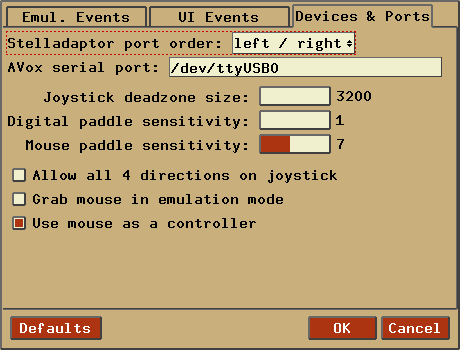
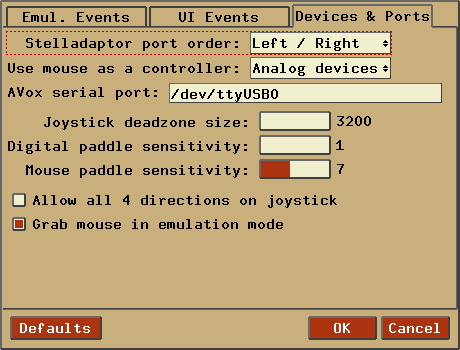
The 'usemouse' option now allows to use the mouse as a controller only for analog-type devices (paddle, trackball, etc).

diff --git a/docs/index.html b/docs/index.html
@@ -1984,8 +1984,10 @@
     </tr>
 
     <tr>
-      <td><pre>-usemouse &lt;1|0&gt;</pre></td>
-      <td>Use mouse as a controller as specified by ROM properties.</td>
+      <td><pre>-usemouse &lt;always|analog|never&gt;</pre></td>
+      <td>Use mouse as a controller as specified by ROM properties in specific case.
+      Always and never are self-explanatory, analog means only for analog-type devices
+      (paddles, trackball, etc).</td>
     </tr>
 
     <tr>
@@ -2616,14 +2618,14 @@
       <td valign="top">
         <table border="1" cellpadding="4">
           <tr><th>Item</th><th>Brief description</th><th>For more information,<br>see <a href="#CommandLine">CommandLine</a></th></tr>
-          <tr><td>Stelladaptor X is</td><td>Specifies which virtual port each Stelladaptor/2600-daptor uses (See <b>Advanced Configuration - <a href="#Adaptor">Stelladaptor/2600-daptor Support</a></b>)</td><td>-saport</td></tr>
+          <tr><td>Stelladaptor port order</td><td>Specifies which virtual port each Stelladaptor/2600-daptor uses (See <b>Advanced Configuration - <a href="#Adaptor">Stelladaptor/2600-daptor Support</a></b>)</td><td>-saport</td></tr>
+          <tr><td>Use mouse as ...</td><td>Allow the mouse to emulate various controllers</td><td>-usemouse</td></tr>
           <tr><td>AVox serial port</td><td>Described in further detail in <b>Advanced Configuration - <a href="#AtariVox">AtariVox/SaveKey Support</a></b> </td><td>-avoxport</td></tr>
           <tr><td>Joy deadzone size</td><td>Deadzone area for axes on joysticks/gamepads</td><td>-joydeadzone</td></tr>
-          <tr><td>Digital paddle sensitivity</td><td>Sensitvity used when emulating a paddle using a digital device</td><td>-dsense</td></tr>
+          <tr><td>Digital paddle sensitivity</td><td>Sensitivity used when emulating a paddle using a digital device</td><td>-dsense</td></tr>
           <tr><td>Mouse paddle sensitivity</td><td>Sensitivity used when emulating a paddle using a mouse</td><td>-msense</td></tr>
           <tr><td>Allow all 4 ...</td><td>Allow all 4 joystick directions to be pressed simultaneously</td><td>-joyallow4</td></tr>
           <tr><td>Grab mouse ...</td><td>Keep mouse in window in emulation mode</td><td>-grabmouse</td></tr>
-          <tr><td>Use mouse as ...</td><td>Allow the mouse to emulate various controllers</td><td>-usemouse</td></tr>
         </table>
       </td>
     </tr>
@@ -2687,7 +2689,7 @@
 
   <p><ol>
     <li><p><b>Power-on options</b>: Selecting this option shows a dialog whereby
-    ROM properties can be temporarily overriden, and joystick/console buttons can be
+    ROM properties can be temporarily overridden, and joystick/console buttons can be
     temporarily held down.  Selecting options from this dialog will cause all ROMs launched
     after that to use those properties you specify.  Clicking <b>Defaults</b> will disable
     its functionality, and use ROM properties as defined by the ROM itself.  The dialog is as
